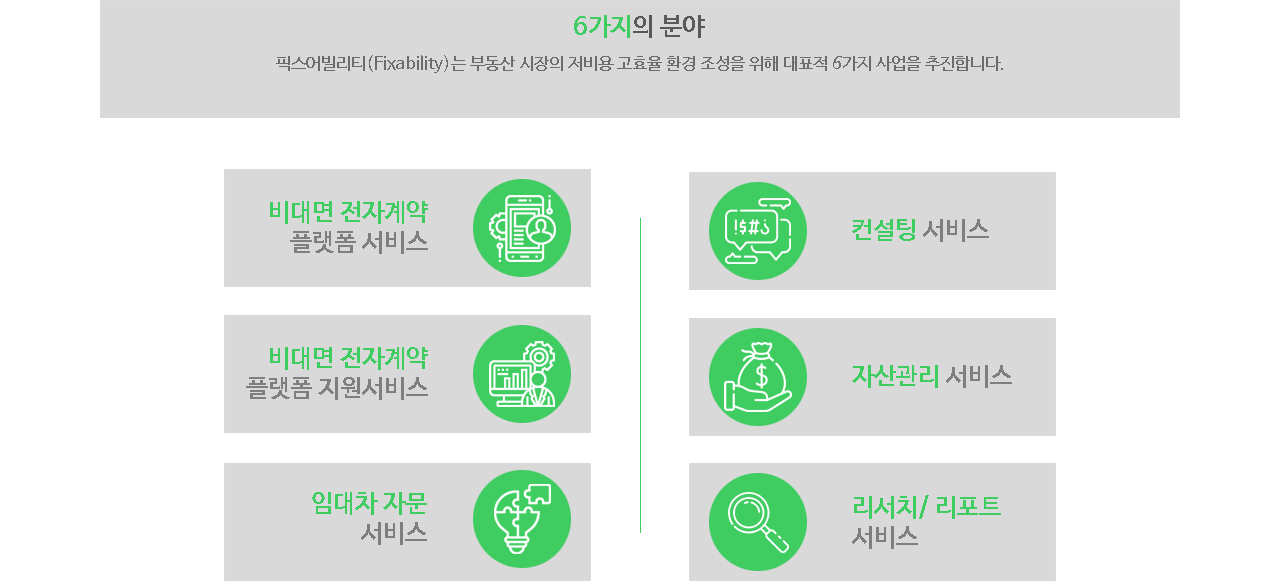
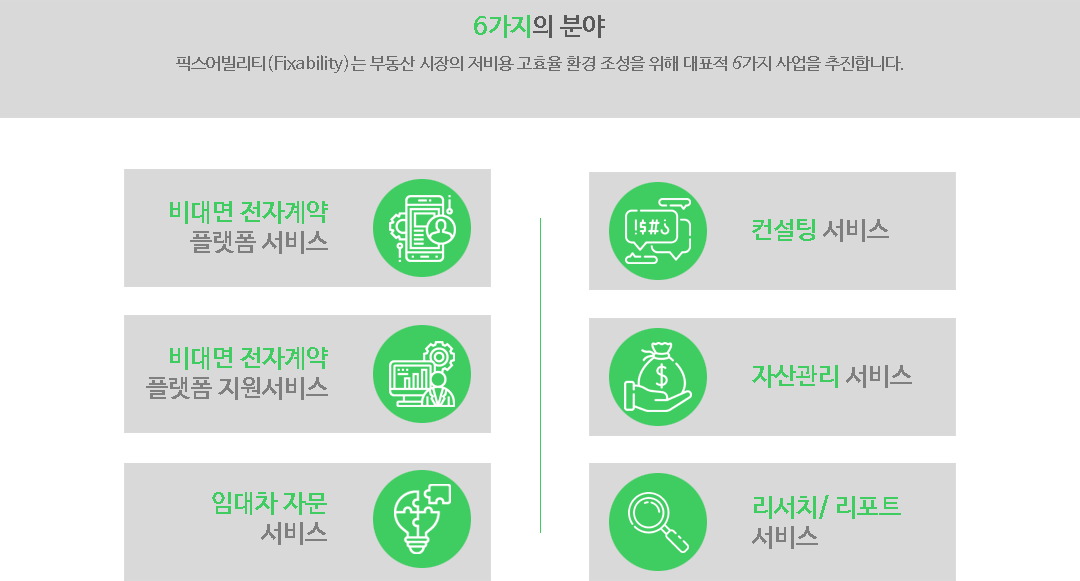
20210128_2
- 수정.

diff --git a/css/style.css b/css/style.css
@@ -129,7 +129,7 @@ textarea{box-sizing:border-box;}
 /* .section .article .container.left{background:url('../images/article_background.png') no-repeat;background-position:-1650px top;background-size:3300px 200%;}
 .section .article .container.right{background:url('../images/article_background.png') no-repeat;background-position:1650px top;background-size:3300px 200%;} */
 
-.section .article .contents{width:100%;max-width:1280px;min-height:calc(100vh - 0px);background:rgba(255,255,255,0.8);margin:0 auto;color:#000;opacity:1;top:0px;bottom:0;left:0;right:0;}
+.section .article .contents{width:100%;max-width:1280px;min-height:calc(100vh - 0px);background:rgba(255,255,255,0.8);padding:180px 0 0;margin:0 auto;color:#000;opacity:1;top:0px;bottom:0;left:0;right:0;}
 .section .article .contents:after{content:'';display:block;box-sizing:border-box;width:100%;height:0;clear:both;}
 .section .article .contents>h3{display:block;width:100%;height:70px;line-height:70px;top:0px;text-align:left;color:#7f7f7f;font-size:63px;font-weight:700;opacity:1;}
 .section .article .contents>h3 span{display:block;width:250px;height:70px;line-height:70px;padding-left:50px;border-top:0px solid #3b438c;border-bottom:0px solid #3b438c;}
@@ -153,9 +153,10 @@ textarea{box-sizing:border-box;}
 .section .article .contents.left-pop{left:0;}
 .section .article .contents.right-pop{right:0;}
 
-.section .article .contents .card-wrap{height:100%;padding: 20px 0;}
-.section .article .contents .card{word-break:keep-all;margin-top:0px;color:#24242d;border-bottom:0px solid #ccc;float:none;margin-left:0;opacity:1;}
-.section .article .contents .card:nth-of-type(1){margin-top:50px;}
+.section .article .contents .card-wrap{height:100%;padding: 46px 0;}
+.section .article .contents .card{word-break:keep-all;width:100%;max-width:1280px;background:#f5f5f5;border-bottom:0px solid #ccc;padding-bottom:70px;float:none;color:#24242d;text-align:center;opacity:1;}
+.section .article .contents .card img{float:none;width:100%;max-width:1080px;}
+.section .article .contents .card:nth-of-type(1){margin-top:0px;}
 .section .article .contents .card:before{content:'';position:absolute;box-sizing:border-box;width:5px;height:30vh;top:50%;left:0;margin-top:-15vh;border-left:5px solid #ededed;border-radius:5px;}
 .section .article .contents .card:nth-of-type(1):before,.section .article .contents .card:nth-of-type(3):before{display:none;}
 .section .article .contents .card:nth-of-type(1):after,.section .article .contents .card:nth-of-type(2):after{content:'';position:absolute;box-sizing:border-box;width:30vh;height:5px;bottom:0;left:50%;margin-left:-15vh;border-bottom:5px solid #ededed;border-radius:5px;}
@@ -205,8 +206,8 @@ textarea{box-sizing:border-box;}
 .section .article .contents .graph .graph-img .circle{max-width:640px;margin:80px auto 0;}
 
 /* .section .article .contents .graph-2 .graph-img .img-wrap img{width:90%;} */
-.section .article .contents .with .board_ceo{width:100%;max-width:1280px; min-height:200px;margin:60px auto 0;overflow:hidden;opacity:1;}
-.section .article .contents .with .board_ceo iframe{width:100%;min-height:500px;border:0;overflow:hidden;}
+.section .article .contents .intro .board_ceo{width:100%;max-width:1280px; min-height:200px;margin:60px auto 0;overflow:hidden;opacity:1;}
+.section .article .contents .intro .board_ceo iframe{width:100%;min-height:500px;border:0;overflow:hidden;}
 
 .section .article .contents .sevice_title{min-width:320px;width:100%;background:#161b61;margin:0 auto;padding:1em 1em 1em 1em;color:#fff;transition:all 0.3s;}
 /* .section .article .contents .sevice_title:before{content:'';display:block;position:absolute;width:470px;height:42px;background:#efefef;top:30px;left:0;} */
@@ -220,7 +221,11 @@ textarea{box-sizing:border-box;}
 .section .article .contents .graph_title>div span{color:#2aa4e1;}
 .section .article .contents .graph_title>div:nth-of-type(2){height:20px;line-height:20px;font-size:17px;font-weight:500;margin-top:10px;}
 
-.section .article .contents .card .sevice_title span{color:#8ec41e;font-weight:600;}
+.section .article .contents .card_title{min-width:320px;width:100%;max-width:1080px;margin:180px auto 0;padding-bottom:25px;transition:all 0.3s;}
+.section .article .contents .card_title>div{text-align:left;color:#7f7f7f;}
+.section .article .contents .card_title>div span{color:#2aa4e1;}
+.section .article .contents .card_title>div:nth-of-type(2){height:20px;line-height:20px;font-size:17px;font-weight:500;margin-top:10px;}
+
 .section .article .contents .card p{box-sizing:border-box;min-width:320px;max-width:640px;color:#666;margin:0 auto;padding:30px 10px;font-weight:500;word-spacing:-1px;text-align:center;}
 
 .section .article .contents .card table{width:calc(100% - 20px);max-width:1280px;border-collapse:collapse;margin:0 auto;color:#666;}
@@ -236,7 +241,8 @@ textarea{box-sizing:border-box;}
 /* .section .article .contents .card p span{color:#709a18;font-weight:700;} */
 
 .section .article .contents .card_1{transition:all 0.3s;}
-.section .article .contents .card_2{transition:all 0.5s;}
+.section .article .contents .card_2{transition:all 0.5s;background:#fff;}
+.section .article .contents .card_2 img{max-width:950px;margin:11px auto 0;}
 .section .article .contents .card_3{transition:all 0.7s;}
 .section .article .contents .card_4{transition:all 0.9s;}
 .section .article .contents .card_5{transition:all 1.1s;}
@@ -253,7 +259,6 @@ textarea{box-sizing:border-box;}
 
 .section .article_0{min-height:100vh;background:#fff;}
 
-.section .article_1 .contents{padding:180px 0;}
 .section .article_1 .contents .word{width:100%;max-width:1440px;background:#f5f5f5;margin:0 auto;padding:50px 0px 0px;word-break:keep-all;transition:all 0.5s;}
 .section .article_1 .contents .vision{margin-left:0;opacity:1;}
 .section .article_1 .contents .mission{padding-bottom:70px;margin-right:0;opacity:1;}
@@ -263,7 +268,7 @@ textarea{box-sizing:border-box;}
 .section .article_1 .contents .word h4>span{color:#2aa4e1;}
 
 .section .article_3{min-height:100%;}
-.section .article_3 .contents{padding:0px 0;min-height:100%;}
+.section .article_3 .contents{min-height:100%;}
 .section .article_3 .word{line-height:22px;}
 
 .section .article_4{min-height:100%;}
@@ -368,12 +373,12 @@ textarea{box-sizing:border-box;}
 	.section .article .contents .graph{width:100%;min-height:43vh;}
 	.section .article .contents .graph_title>div:nth-of-type(1){line-height:30px;font-size:18px;font-weight:500;}
 	.section .article .contents .graph_title .then-start{font-size:35px!important;font-weight:500!important;}
-	.section .article_2 .contents .card{width:100%;min-height:21.5vh;border-bottom: 1px solid #161b61;}
 	.section .article .contents .card:before{display:none;}
 	.section .article .contents .card:nth-of-type(1):after,.section .article .contents .card:nth-of-type(2):after{display:none;}
 	.section .article .contents .graph .graph-img .img-wrap .chart-need{width:100%;float:none;}
 	.section .article .contents .graph .graph-img .img-wrap .need-img{width:81.5%;max-width:880px;float:none;}
 	.section .article .contents .sevice_title{display:block;}
+	.section .article .contents .card_title>div:nth-of-type(1){line-height:45px;font-size:42px;font-weight:700;}
 	.section .article .contents .card p{display:block;line-height:30px;font-size:14px;}
 	.section .article .contents .card table{display:none;}
 	.section .article .contents .greeting .word{font-size:14px;}
@@ -392,12 +397,12 @@ textarea{box-sizing:border-box;}
 	.section .article .contents .graph{width:100%;min-height:43vh;}
 	.section .article .contents .graph_title>div:nth-of-type(1){line-height:30px;font-size:20px;font-weight:500;}
 	.section .article .contents .graph_title .then-start{font-size:35px!important;font-weight:500!important;}
-	.section .article_2 .contents .card{width:100%;min-height:21.5vh;border-bottom: 1px solid #161b61;}
 	.section .article .contents .card:before{display:none;}
 	.section .article .contents .card:nth-of-type(1):after,.section .article .contents .card:nth-of-type(2):after{display:none;}
 	.section .article .contents .graph .graph-img .img-wrap .chart-need{width:100%;float:none;}
 	.section .article .contents .graph .graph-img .img-wrap .need-img{width:81.5%;max-width:880px;float:none;}
 	.section .article .contents .sevice_title{display:block;}
+	.section .article .contents .card_title>div:nth-of-type(1){line-height:45px;font-size:42px;font-weight:700;}
 	.section .article .contents .card p{display:block;line-height:30px;font-size:14px;}
 	.section .article .contents .card table{display:none;}
 	.section .article .contents .greeting .word{font-size:14px;}
@@ -416,12 +421,12 @@ textarea{box-sizing:border-box;}
 	.section .article .contents .graph{width:100%;min-height:43vh;}
 	.section .article .contents .graph_title>div:nth-of-type(1){line-height:40px;font-size:22px;font-weight:500;}
 	.section .article .contents .graph_title .then-start{font-size:45px!important;font-weight:700!important;}
-	.section .article_2 .contents .card{width:100%;min-height:21.5vh;padding:0px 0;border-bottom: 1px solid #161b61;}
 	.section .article .contents .card:before{display:none;}
 	.section .article .contents .card:nth-of-type(1):after,.section .article .contents .card:nth-of-type(2):after{display:none;}
 	.section .article .contents .graph .graph-img .img-wrap .chart-need{width:100%;float:none;}
 	.section .article .contents .graph .graph-img .img-wrap .need-img{width:81.5%;max-width:880px;float:none;}
 	.section .article .contents .sevice_title{display:block;}
+	.section .article .contents .card_title>div:nth-of-type(1){line-height:45px;font-size:42px;font-weight:700;}
 	.section .article .contents .card p{display:block;line-height:30px;font-size:14px;}
 	.section .article .contents .card table{display:none;}
 	.section .article .contents .greeting .word{font-size:14px;}
@@ -440,12 +445,12 @@ textarea{box-sizing:border-box;}
 	.section .article .contents .graph{width:100%;min-height:43vh;}
 	.section .article .contents .graph_title>div:nth-of-type(1){line-height:40px;font-size:26px;font-weight:500;}
 	.section .article .contents .graph_title .then-start{font-size:55px!important;font-weight:700!important;}
-	.section .article_2 .contents .card{width:100%;min-height:21.5vh;padding:0px 0;border-bottom: 1px solid #161b61;}
 	.section .article .contents .card:before{display:none;}
 	.section .article .contents .card:nth-of-type(1):after,.section .article .contents .card:nth-of-type(2):after{display:none;}
 	.section .article .contents .graph .graph-img .img-wrap .chart-need{width:100%;float:none;}
 	.section .article .contents .graph .graph-img .img-wrap .need-img{width:81.5%;max-width:880px;float:none;}
 	.section .article .contents .sevice_title{display:block;}
+	.section .article .contents .card_title>div:nth-of-type(1){line-height:45px;font-size:42px;font-weight:700;}
 	.section .article .contents .card p{display:block;line-height:30px;font-size:14px;}
 	.section .article .contents .card table{display:none;}
 	.section .article .contents .greeting .word{font-size:16px;}
@@ -467,12 +472,12 @@ textarea{box-sizing:border-box;}
 	.section .article .contents .graph{width:100%;min-height:43vh;}
 	.section .article .contents .graph_title>div:nth-of-type(1){line-height:40px;font-size:28px;font-weight:500;}
 	.section .article .contents .graph_title .then-start{font-size:55px!important;font-weight:700!important;}
-	.section .article_2 .contents .card{width:100%;min-height:21.5vh;padding:0px 0;border-bottom: 1px solid #161b61;}
 	.section .article .contents .card:before{display:none;}
 	.section .article .contents .card:nth-of-type(1):after,.section .article .contents .card:nth-of-type(2):after{display:none;}
 	.section .article .contents .graph .graph-img .img-wrap .chart-need{width:100%;float:none;}
 	.section .article .contents .graph .graph-img .img-wrap .need-img{width:81.5%;max-width:880px;float:none;}
 	.section .article .contents .sevice_title{display:block;}
+	.section .article .contents .card_title>div:nth-of-type(1){line-height:45px;font-size:42px;font-weight:700;}
 	.section .article .contents .card p{display:block;line-height:34px;font-size:16px;}
 	.section .article .contents .card table{display:none;}
 	.section .article .contents .greeting .word{font-size:16px;}
@@ -494,13 +499,13 @@ textarea{box-sizing:border-box;}
 	.section .article .contents .graph{width:100%;min-height:43vh;}
 	.section .article .contents .graph_title>div:nth-of-type(1){line-height:40px;font-size:35px;font-weight:500;}
 	.section .article .contents .graph_title .then-start{font-size:63px!important;font-weight:700!important;}
-	.section .article_2 .contents .card{width:100%;padding:20px 0;}
 	.section .article .contents .card:before{display:none;}
 	.section .article .contents .card:nth-of-type(1):after,.section .article .contents .card:nth-of-type(2):after{display:none;}
 	.section .article .contents .graph .graph-img .img-wrap .chart-need{width:50%;float:right;}
 	.section .article .contents .graph .graph-img .img-wrap .chart-need .need-box{width:100%;max-width:450px;margin-right:56px;float:right;}
 	.section .article .contents .graph .graph-img .img-wrap .need-img{width:50%;max-width:485px;margin-top:50px;margin-bottom:68px;float:left;}
 	.section .article .contents .sevice_title{display:none;}
+	.section .article .contents .card_title>div:nth-of-type(1){line-height:45px;font-size:42px;font-weight:700;}
 	.section .article .contents .card p{display:none;line-height:34px;font-size:16px;}
 	.section .article .contents .card table{display:table;}
 	.section .article .contents .greeting .word{font-size:18px;}
@@ -522,10 +527,10 @@ textarea{box-sizing:border-box;}
 	.section .article .contents .graph{width:100%;min-height:43vh;}
 	.section .article .contents .graph_title>div:nth-of-type(1){line-height:45px;font-size:42px;font-weight:700;}
 	.section .article .contents .graph_title .then-start{font-size:63px!important;font-weight:700!important;}
-	.section .article_2 .contents .card{width:100%;padding:20px 0;}
 	.section .article .contents .card:before{display:none;}
 	.section .article .contents .card:nth-of-type(1):after,.section .article .contents .card:nth-of-type(2):after{display:none;}
 	.section .article .contents .sevice_title{display:none;}
+	.section .article .contents .card_title>div:nth-of-type(1){line-height:45px;font-size:42px;font-weight:700;}
 	.section .article .contents .card p{display:none;line-height:36px;font-size:17px;}
 	.section .article .contents .card table{display:table;}
 	.section .article .contents .greeting .word{font-size:18px;}
@@ -553,10 +558,10 @@ textarea{box-sizing:border-box;}
 	.section .article .contents .graph .graph-img .img-wrap .chart-need{width:50%;float:right;}
 	.section .article .contents .graph .graph-img .img-wrap .chart-need .need-box{width:100%;max-width:450px;margin-right:56px;float:right;}
 	.section .article .contents .graph .graph-img .img-wrap .need-img{width:50%;max-width:485px;margin-top:50px;margin-bottom:68px;float:left;}
-	.section .article_2 .contents .card{width:100%;padding:20px 0;}
 	.section .article .contents .card:before{display:none;}
 	.section .article .contents .card:nth-of-type(1):after,.section .article .contents .card:nth-of-type(2):after{display:none;}
 	.section .article .contents .sevice_title{display:none;}
+	.section .article .contents .card_title>div:nth-of-type(1){line-height:45px;font-size:42px;font-weight:700;}
 	.section .article .contents .card p{display:none;line-height:38px;font-size:18px;}
 	.section .article .contents .card table{display:table;}
 	.section .article .contents .greeting .word{font-size:18px;}

diff --git a/js/slide.js b/js/slide.js
@@ -47,7 +47,7 @@ $(function(){
 							// else{
 							// 	msheight = '100vh';
 							// }
-							msheight = $('.slide').children('img').height();
+							msheight = $('.slide').children('img').height()+90;
 							article_height = $('.article').height();
 							$('.slide-wrap').css({'height':msheight});
 						}
@@ -85,7 +85,7 @@ $(function(){
 			// else{
 			// 	msheight = '100vh';
 			// }
-			msheight = $('.slide').children('img').height();
+			msheight = $('.slide').children('img').height()+90;
 
 			$(window).resize(function(){
 				var delay_time;
@@ -98,7 +98,7 @@ $(function(){
 						// else{
 						// 	msheight = '100vh';
 						// }
-						msheight = $('.slide').children('img').height();
+						msheight = $('.slide').children('img').height()+90;
 						var mswidth = $('.slide').each(Array).length;/*-슬라이드 전체 배열의 갯수만큼의 숫자를 추출-*/
 						wrapwidth = mswidth*100;
 						s_width = $('.slide').width();
@@ -286,13 +286,13 @@ $(function(){
 							}
 						};
 					}
-					if(yvalue>cal_height){
-						$('body, html').stop().animate({ scrollTop: $("body").offset().top+yvalue },300);
-					}else if(yvalue<cal_height){
-						if((yvalue*-1)>cal_height){
-							$('body, html').stop().animate({ scrollTop: $("body").offset().top+yvalue },300);
-						}
-					}
+					// if(yvalue>cal_height){
+					// 	$('body, html').stop().animate({ scrollTop: $("body").offset().top+yvalue },300);
+					// }else if(yvalue<cal_height){
+					// 	if((yvalue*-1)>cal_height){
+					// 		$('body, html').stop().animate({ scrollTop: $("body").offset().top+yvalue },300);
+					// 	}
+					// }
 					$('.slide-container').css({'left':updown+'%'});
 				}
 				else if (event.type=='touchend')
@@ -339,17 +339,17 @@ $(function(){
 							$('.slide-container').stop().animate({'left':drag_return+'%'},boundspeed);
 						}
 					}else if(((tvalue<10)&&(tvalue>-10))||(tvalue==0)){
-						if(yvalue==0){
-							// click_move();
-						}else{
-							if(yvalue>cal_height){
-								$('body, html').stop().animate({ scrollTop: $("body").offset().top+yvalue },300);
-							}else if(yvalue<cal_height){
-								if((yvalue*-1)>cal_height){
-									$('body, html').stop().animate({ scrollTop: $("body").offset().top+yvalue },300);
-								}
-							}
-						}
+						// if(yvalue==0){
+						// 	// click_move();
+						// }else{
+						// 	if(yvalue>cal_height){
+						// 		$('body, html').stop().animate({ scrollTop: $("body").offset().top+yvalue },300);
+						// 	}else if(yvalue<cal_height){
+						// 		if((yvalue*-1)>cal_height){
+						// 			$('body, html').stop().animate({ scrollTop: $("body").offset().top+yvalue },300);
+						// 		}
+						// 	}
+						// }
 					}
 					$('.slide'+app_sort).remove('');
 					// start_s();
@@ -398,17 +398,17 @@ $(function(){
 							$('.slide-container').stop().animate({'left':drag_return+'%'},boundspeed);
 						}
 					}else if(((tvalue<10)&&(tvalue>-10))||(tvalue==0)){
-						if(yvalue==0){
-							// click_move();
-						}else{
-							if(yvalue>cal_height){
-								$('body, html').stop().animate({ scrollTop: $("body").offset().top+yvalue },300);
-							}else if(yvalue<cal_height){
-								if((yvalue*-1)>cal_height){
-									$('body, html').stop().animate({ scrollTop: $("body").offset().top+yvalue },300);
-								}
-							}
-						}
+						// if(yvalue==0){
+						// 	// click_move();
+						// }else{
+						// 	if(yvalue>cal_height){
+						// 		$('body, html').stop().animate({ scrollTop: $("body").offset().top+yvalue },300);
+						// 	}else if(yvalue<cal_height){
+						// 		if((yvalue*-1)>cal_height){
+						// 			$('body, html').stop().animate({ scrollTop: $("body").offset().top+yvalue },300);
+						// 		}
+						// 	}
+						// }
 					}
 					$('.slide'+app_sort).remove('');
 					// start_s();
@@ -511,7 +511,7 @@ $(function(){
 						// else{
 						// 	msheight = '100vh';
 						// }
-						msheight = $('.slide').children('img').height();
+						msheight = $('.slide').children('img').height()+90;
 						article_height = $('.article').height();
 						$('.slide-wrap').css({'height':msheight});
 						// console.log(msheight+' --')

diff --git a/css/slide.css b/css/slide.css
@@ -1,4 +1,4 @@
-.slide-wrap{position:relative;width:100%;background:#f8f8f8;border-top:0px solid #919191;border-bottom:0px solid #919191;margin:50px auto 0;}
+.slide-wrap{position:relative;width:100%;background:#f5f5f5;border-top:0px solid #919191;border-bottom:0px solid #919191;padding:27px 0 70px;margin:0 auto;}
 .slide-wrap .slide-container{width:100%;overflow:visible;display:block;}
 .slide-wrap .slide-container .slide{width:100%;position:absolute;z-index:1;top:0;display:block;box-sizing:border-box;margin:0;padding:0;text-align:center;}
 .slide-wrap .slide-container .slide img{width:100%;display:block;position:relative;margin:0 auto;float:none;}
@@ -35,21 +35,21 @@
 }
 @media all and (min-width:721px) and (max-width:1080px){
 	.slide-wrap .slide-container .slide .movei-btn{width:180px;height:180px;line-height:180px;background:url("../images/slide/play_botton.png") no-repeat;background-position:0px 0px;background-size:cover;margin-top:-90px;margin-left:-90px;font-size:22px;}
-	.slide-wrap .slide-container .slide img{min-width:720px;}
+	.slide-wrap .slide-container .slide img{min-width:720px;max-width:1080px;}
 	.indicator{width:25%;height:7.5%;left:-12.5%;font-size:0.8em;line-height:0.8em;}
 }
 @media all and (min-width:1081px) and (max-width:1280px){
 	.slide-wrap .slide-container .slide .movei-btn{width:180px;height:180px;line-height:180px;background:url("../images/slide/play_botton.png") no-repeat;background-position:0px 0px;background-size:cover;margin-top:-90px;margin-left:-90px;font-size:22px;}
-	.slide-wrap .slide-container .slide img{min-width:1080px;}
+	.slide-wrap .slide-container .slide img{max-width:1080px;}
 	.indicator{width:25%;height:7.5%;left:-12.5%;font-size:0.8em;line-height:0.8em;}
 }
 @media all and (min-width:1281px) and (max-width:1500px){
 	.slide-wrap .slide-container .slide .movei-btn{width:180px;height:180px;line-height:180px;background:url("../images/slide/play_botton.png") no-repeat;background-position:0px 0px;background-size:cover;margin-top:-90px;margin-left:-90px;font-size:22px;}
-	.slide-wrap .slide-container .slide img{min-width:1280px;max-width:1430px;}
+	.slide-wrap .slide-container .slide img{max-width:1080px;}
 	.indicator{width:25%;height:7.5%;left:-12.5%;font-size:1em;line-height:1em;}
 }
 @media all and (min-width:1501px){
 	.slide-wrap .slide-container .slide .movei-btn{width:250px;height:250px;line-height:250px;background:url("../images/slide/play_botton.png") no-repeat;background-position:0px 0px;background-size:cover;margin-top:-125px;margin-left:-125px;font-size:24px;}
-	.slide-wrap .slide-container .slide img{min-width:1280px;max-width:1430px;max-height:1080px;}
+	.slide-wrap .slide-container .slide img{max-width:1080px;max-height:1080px;}
 	.indicator{width:25%;height:7.5%;left:-12.5%;font-size:1em;line-height:1em;}
 }

diff --git a/index.html b/index.html
@@ -477,8 +477,20 @@
 						<div class="card card_1">
 							<img src="./images/six_item.png" alt="">
 						</div>
+						<div class="card_title margin_top-90px">
+							<div>
+								시연영상
+							</div>
+						</div>
 						<div class="slide-wrap slide-wrap1"></div>
-
+						<div class="card_title">
+							<div>
+								6가지 분야
+							</div>
+						</div>
+						<div class="card card_2">
+							<img src="./images/six_item_detail.png" alt="">
+						</div>
 					</div>
 
 				</div>
@@ -489,7 +501,7 @@
 				<div class="contents">
 					<h3>
 						<span>
-							경제정보
+							기업 소개
 						</span>
 					</h3>
 					<div class="slogan-box slogan-box_3">
@@ -502,11 +514,8 @@
 							</span>
 						</div>
 					</div>
-					<div class="with">
-						<div class="board_ceo">
-							<iframe src="https://fixshowping.cafe24.com/board/%EB%B6%80%EB%8F%99%EC%82%B0%EC%A0%95%EB%B3%B4/1" title="경제정보 게시판 입니다.">
-							</iframe>
-						</div>
+					<div class="intro">
+						
 					</div>
 <!-- 
 					<div class="container thebell">
